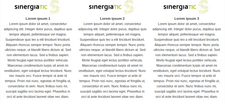
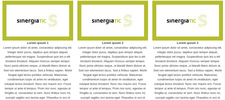
Cambiar imagen en algunas lineas de sección de plantilla

diff --git a/SticUpdates/Scripts/CreateTemplateSectionLineSticExamples.php b/SticUpdates/Scripts/CreateTemplateSectionLineSticExamples.php
@@ -206,7 +206,7 @@ if ($db instanceof DBManager)
             <tbody>
                 <tr>
                     <td style="padding:10px;text-align: center; vertical-align: middle;" align="center">
-                        <img src="{$site_url}/custom/modules/TemplateSectionLine/stic_images_files/Images/logo_200px.png" />
+                        <img src="{$site_url}/custom/modules/TemplateSectionLine/stic_images_files/Images/stic_image_350px.png" />
                     </td>
                     <td align="center" style="padding:10px;">
                         <h2>Lorem ipsum</h2>                    
@@ -228,7 +228,7 @@ if ($db instanceof DBManager)
                         <p>Lorem ipsum dolor sit amet, consectetur adipiscing elit. Integer dolor purus, dapibus quis tempor aliquet, pellentesque vel magna. Suspendisse quis leo a elit tincidunt tincidunt. Aliquam rhoncus semper tempor. Nunc porta ultricies neque, ut blandit libero dictum at. Sed non elementum lacus. Sed a finibus sapien. Morbi feugiat eget lectus porttitor vehicula. Maecenas condimentum turpis sit amet mi vestibulum, eget volutpat lectus tincidunt. Nunc nec mauris orci. Fusce tempor ut ante id tempus. Proin nisi nunc, egestas et fringilla ut, consectetur et sem. Nunc finibus nunc mi, suscipit sagittis orci lacinia eget. Phasellus in orci id ante tincidunt laoreet vitae nec diam.</p>
                     </td>
                     <td style="padding:10px;text-align: center; vertical-align: middle;" align="center">
-                        <img src="{$site_url}/custom/modules/TemplateSectionLine/stic_images_files/Images/logo_200px.png" />
+                        <img src="{$site_url}/custom/modules/TemplateSectionLine/stic_images_files/Images/stic_image_350px.png" />
                     </td>
                 </tr>
             </tbody>
@@ -242,12 +242,12 @@ if ($db instanceof DBManager)
             <tbody>
                 <tr>
                     <td style="padding:10px;text-align: center; vertical-align: middle;" align="center">
-                        <img src="{$site_url}/custom/modules/TemplateSectionLine/stic_images_files/Images/logo_200px.png" />
+                        <img src="{$site_url}/custom/modules/TemplateSectionLine/stic_images_files/Images/stic_image_350px.png" />
                         <h3>Lorem ipsum 1</h3>
                         <p>Lorem ipsum dolor sit amet, consectetur adipiscing elit. Integer dolor purus, dapibus quis tempor aliquet, pellentesque vel magna. Suspendisse quis leo a elit tincidunt tincidunt. Aliquam rhoncus semper tempor. Nunc porta ultricies neque, ut blandit libero dictum at. Sed non elementum lacus. Sed a finibus sapien. Morbi feugiat eget lectus porttitor vehicula. Maecenas condimentum turpis sit amet mi vestibulum, eget volutpat lectus tincidunt. Nunc nec mauris orci. Fusce tempor ut ante id tempus. Proin nisi nunc, egestas et fringilla ut, consectetur et sem. Nunc finibus nunc mi, suscipit sagittis orci lacinia eget. Phasellus in orci id ante tincidunt laoreet vitae nec diam.</p>                    
                     </td>
                     <td style="padding:10px;text-align: center; vertical-align: middle;" align="center">
-                        <img src="{$site_url}/custom/modules/TemplateSectionLine/stic_images_files/Images/logo_200px.png" />
+                        <img src="{$site_url}/custom/modules/TemplateSectionLine/stic_images_files/Images/stic_image_350px.png" />
                         <h3>Lorem ipsum 2</h3>
                         <p>Lorem ipsum dolor sit amet, consectetur adipiscing elit. Integer dolor purus, dapibus quis tempor aliquet, pellentesque vel magna. Suspendisse quis leo a elit tincidunt tincidunt. Aliquam rhoncus semper tempor. Nunc porta ultricies neque, ut blandit libero dictum at. Sed non elementum lacus. Sed a finibus sapien. Morbi feugiat eget lectus porttitor vehicula. Maecenas condimentum turpis sit amet mi vestibulum, eget volutpat lectus tincidunt. Nunc nec mauris orci. Fusce tempor ut ante id tempus. Proin nisi nunc, egestas et fringilla ut, consectetur et sem. Nunc finibus nunc mi, suscipit sagittis orci lacinia eget. Phasellus in orci id ante tincidunt laoreet vitae nec diam.</p>                    
                     </td>
@@ -263,17 +263,17 @@ if ($db instanceof DBManager)
             <tbody>
                 <tr>
                     <td style="padding:10px;text-align: center; vertical-align: middle;" align="center">
-                        <img src="{$site_url}/custom/modules/TemplateSectionLine/stic_images_files/Images/logo_200px.png" />
+                        <img src="{$site_url}/custom/modules/TemplateSectionLine/stic_images_files/Images/stic_image_350px.png" />
                         <h3>Lorem ipsum 1</h3>
                         <p>Lorem ipsum dolor sit amet, consectetur adipiscing elit. Integer dolor purus, dapibus quis tempor aliquet, pellentesque vel magna. Suspendisse quis leo a elit tincidunt tincidunt. Aliquam rhoncus semper tempor. Nunc porta ultricies neque, ut blandit libero dictum at. Sed non elementum lacus. Sed a finibus sapien. Morbi feugiat eget lectus porttitor vehicula. Maecenas condimentum turpis sit amet mi vestibulum, eget volutpat lectus tincidunt. Nunc nec mauris orci. Fusce tempor ut ante id tempus. Proin nisi nunc, egestas et fringilla ut, consectetur et sem. Nunc finibus nunc mi, suscipit sagittis orci lacinia eget. Phasellus in orci id ante tincidunt laoreet vitae nec diam.</p>                    
                     </td>
                     <td style="padding:10px;text-align: center; vertical-align: middle;" align="center">
-                        <img src="{$site_url}/custom/modules/TemplateSectionLine/stic_images_files/Images/logo_200px.png" />
+                        <img src="{$site_url}/custom/modules/TemplateSectionLine/stic_images_files/Images/stic_image_350px.png" />
                         <h3>Lorem ipsum 2</h3>
                         <p>Lorem ipsum dolor sit amet, consectetur adipiscing elit. Integer dolor purus, dapibus quis tempor aliquet, pellentesque vel magna. Suspendisse quis leo a elit tincidunt tincidunt. Aliquam rhoncus semper tempor. Nunc porta ultricies neque, ut blandit libero dictum at. Sed non elementum lacus. Sed a finibus sapien. Morbi feugiat eget lectus porttitor vehicula. Maecenas condimentum turpis sit amet mi vestibulum, eget volutpat lectus tincidunt. Nunc nec mauris orci. Fusce tempor ut ante id tempus. Proin nisi nunc, egestas et fringilla ut, consectetur et sem. Nunc finibus nunc mi, suscipit sagittis orci lacinia eget. Phasellus in orci id ante tincidunt laoreet vitae nec diam.</p>                    
                     </td>
                     <td style="padding:10px;text-align: center; vertical-align: middle;" align="center">
-                        <img src="{$site_url}/custom/modules/TemplateSectionLine/stic_images_files/Images/logo_200px.png" />
+                        <img src="{$site_url}/custom/modules/TemplateSectionLine/stic_images_files/Images/stic_image_350px.png" />
                         <h3>Lorem ipsum 3</h3>
                         <p>Lorem ipsum dolor sit amet, consectetur adipiscing elit. Integer dolor purus, dapibus quis tempor aliquet, pellentesque vel magna. Suspendisse quis leo a elit tincidunt tincidunt. Aliquam rhoncus semper tempor. Nunc porta ultricies neque, ut blandit libero dictum at. Sed non elementum lacus. Sed a finibus sapien. Morbi feugiat eget lectus porttitor vehicula. Maecenas condimentum turpis sit amet mi vestibulum, eget volutpat lectus tincidunt. Nunc nec mauris orci. Fusce tempor ut ante id tempus. Proin nisi nunc, egestas et fringilla ut, consectetur et sem. Nunc finibus nunc mi, suscipit sagittis orci lacinia eget. Phasellus in orci id ante tincidunt laoreet vitae nec diam.</p>                    
                     </td>                
